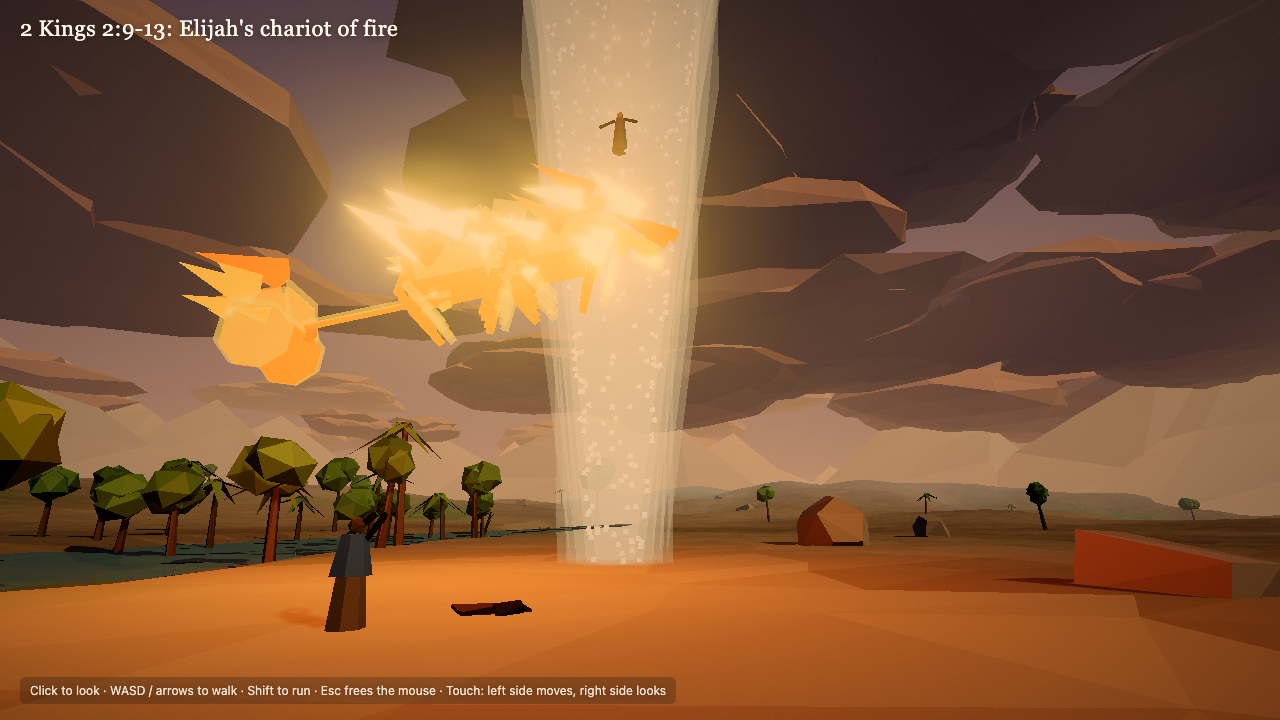
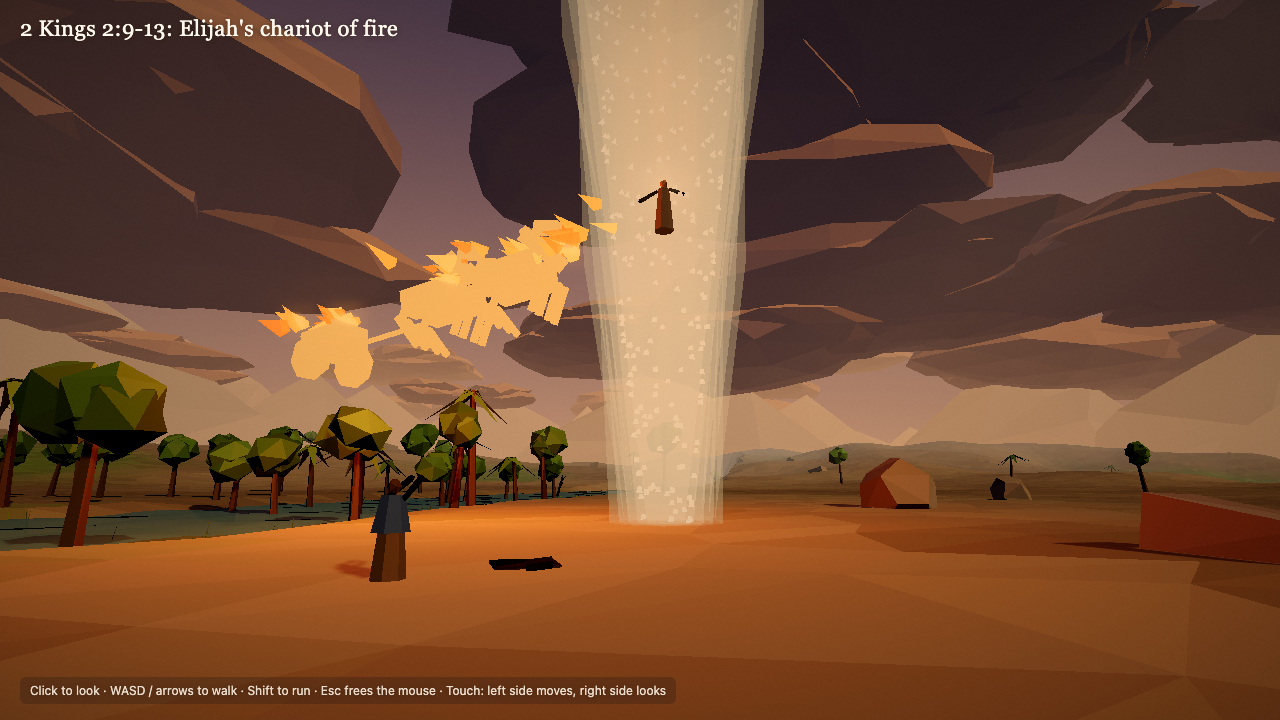
feat: polish lowpoly scenes ot-31 to ot-37

diff --git a/styles/lowpoly/scenes/ot-35.js b/styles/lowpoly/scenes/ot-35.js
@@ -3,6 +3,7 @@
 // The player stands with Elisha on the north gate tower looking out. -z is north.
 import * as THREE from 'three';
 import { figure, glowMaterial, teamGeometry, chariotGeometry, horseGeometry, instances } from './lib/ot-31-kit.js';
+import { mergeGeometries } from 'three/addons/utils/BufferGeometryUtils.js';
 import { rng } from '../engine/util.js';
 
 const CITY = [0, 20];
@@ -78,30 +79,52 @@ function syrianHost(ctx) {
   }
 }
 
+// Flame tongues in team space: over each wheel, along the horses' backs and manes, and streaming behind the car.
+function flameGeometry() {
+  const r = rng(38);
+  const cones = [];
+  const tongue = (x, y, z, h, w, lean) => cones.push(new THREE.ConeGeometry(w * 1.2, h * 1.3, 4).translate(0, h / 2, 0).rotateX(-lean).translate(x, y, z).toNonIndexed());
+  for (const side of [-1, 1]) {
+    for (let k = 0; k < 3; k++) tongue(side * 0.7, 1.0 + k * 0.1, -0.3 - k * 0.35, 0.9 - k * 0.15, 0.16, 0.9);
+    for (let k = 0; k < 3; k++) tongue(side * 0.42, 1.55, 2.6 + k * 0.5, 0.7, 0.12, 0.8);
+    tongue(side * 0.42, 1.95, 4.0, 0.8, 0.12, 0.9);
+  }
+  for (let k = 0; k < 5; k++) tongue(r.range(-0.5, 0.5), 1.3, -0.4 - k * 0.3, 1.1 - k * 0.12, 0.2, 1.1);
+  return mergeGeometries(cones.map((g) => { for (const a of Object.keys(g.attributes)) if (a !== 'position') g.deleteAttribute(a); return g; }));
+}
+
 function hostsOfFire(ctx) {
   const r = rng(37);
-  const list = [];
-  for (let i = 0; i < 200; i++) {
-    const a = -Math.PI / 2 + r.range(-2.2, 2.2), d = r.range(130, 280);
+  const spots = [];
+  for (let i = 0; i < 3000; i++) {
+    const a = -Math.PI / 2 + r.range(-1.3, 1.3), d = r.range(140, 280);
     const x = CITY[0] + Math.cos(a) * d, z = CITY[1] + Math.sin(a) * d;
-    list.push({ x, z, y: ctx.heightAt(x, z) + r.range(0, 4), yaw: Math.atan2(CITY[0] - x, CITY[1] - z) + r.range(-0.4, 0.4), scale: r.range(2.4, 3.4), pitch: r.range(-0.15, 0.05) });
+    spots.push({ x, z, d, y: ctx.heightAt(x, z) });
   }
-  const team = teamGeometry({ horses: 2, gallop: 0.8 });
-  const core = instances(ctx, team, glowMaterial('#ff7a20', 1.5), list, { shadow: false });
-  const halo = instances(ctx, team, glowMaterial('#ffd060', 1.2, { transparent: true, opacity: 0.35, depthWrite: false }), list.map((p) => ({ ...p, scale: p.scale * 1.15 })), { shadow: false });
-  const flame = new THREE.ConeGeometry(0.6, 3, 4).translate(0, 1.5, 0);
-  const tongues = [];
-  for (const p of list) for (let k = 0; k < 3; k++) tongues.push({ x: p.x + r.range(-2, 2), z: p.z + r.range(-2, 2), y: p.y + r.range(0, 2), yaw: r() * 3, scale: r.range(0.8, 1.8) });
-  const flames = instances(ctx, flame, glowMaterial('#ffb040', 1.7), tongues, { shadow: false });
+  spots.sort((p, q) => q.y - q.d * 0.05 - (p.y - p.d * 0.05));
+  const list = [];
+  for (const s of spots) {
+    if (list.length >= 20) break;
+    if (list.some((p) => Math.hypot(p.x - s.x, p.z - s.z) < 40)) continue;
+    const across = Math.atan2(CITY[0] - s.x, CITY[1] - s.z) + (r() < 0.5 ? 1 : -1) * Math.PI / 2;
+    list.push({ x: s.x, z: s.z, y: s.y + 1.5, yaw: across + r.range(-0.3, 0.3), scale: 6 + (s.d - 140) * 0.03 });
+  }
+  for (let tries = 0; tries < 2000 && list.length < 32; tries++) {
+    const a = -Math.PI / 2 + r.range(-1.2, 1.2), d = r.range(115, 175);
+    const x = CITY[0] + Math.cos(a) * d, z = CITY[1] + Math.sin(a) * d;
+    if (list.some((p) => Math.hypot(p.x - x, p.z - z) < 30)) continue;
+    const across = Math.atan2(CITY[0] - x, CITY[1] - z) + (r() < 0.5 ? 1 : -1) * Math.PI / 2;
+    list.push({ x, z, y: ctx.heightAt(x, z) + r.range(3, 9), yaw: across + r.range(-0.3, 0.3), scale: r.range(4.6, 5.4) });
+  }
+  const core = instances(ctx, teamGeometry({ horses: 2, gallop: 0.8 }), glowMaterial('#ffc27a', 1.0), list, { shadow: false });
+  const flames = instances(ctx, flameGeometry(), glowMaterial('#ff8a24', 1.35, { transparent: true, opacity: 0.85, depthWrite: false }), list, { shadow: false });
   ctx.onFrame((t) => {
-    const k = 0.92 + 0.08 * Math.sin(t * 9) * Math.sin(t * 5.3);
-    core.material.color.setRGB(1.5 * k, 0.72 * k, 0.19 * k);
-    flames.material.color.setRGB(1.7 * k, 1.2 * k, 0.4 * k);
-    halo.material.opacity = 0.3 + 0.1 * Math.sin(t * 3);
+    const k = 0.9 + 0.1 * Math.sin(t * 9) * Math.sin(t * 5.3);
+    flames.material.color.setRGB(2.0 * k, 0.95 * k, 0.25 * k);
   });
-  for (let i = 0; i < 12; i++) {
+  for (let i = 0; i < 8; i++) {
     const p = list[Math.floor(r() * list.length)];
-    ctx.effects.halo({ position: [p.x, p.y + 6, p.z], size: 60, opacity: 0.35, color: '#ff9a40' });
+    ctx.effects.halo({ position: [p.x, p.y + 4, p.z], size: 40, opacity: 0.18, color: '#ff9a40' });
   }
 }
 
@@ -117,7 +140,7 @@ export default {
   fog: { color: '#a48078', near: 120, far: 640 },
   clouds: { count: 60, shadow: '#3a3450', lit: '#f0a080', rim: '#ffe0c0', distance: [250, 900], altitude: [100, 240], hole: 0.3, seed: 35 },
   mountains: { count: 40, color: '#4e4a52', radius: [520, 760], height: [50, 120], haze: 0.5 },
-  bloom: { strength: 0.8, radius: 0.65, threshold: 0.78 },
+  bloom: { strength: 0.5, radius: 0.35, threshold: 0.9 },
   grade: { saturation: 1.12, contrast: 1.08, vignette: 0.42, shadowTint: '#2a2858', highlightTint: '#ffd8b0' },
   shadow: { center: [0, -30], radius: 90 },
 

diff --git a/styles/lowpoly/scenes/ot-33.js b/styles/lowpoly/scenes/ot-33.js
@@ -15,20 +15,17 @@ function fieryTeam(ctx, { x, y, z, yaw, pitch, scale = 1 }) {
   group.rotation.set(pitch, yaw, 0);
   group.scale.setScalar(scale);
   const geo = teamGeometry({ horses: 4, gallop: 0.7 });
-  group.add(new THREE.Mesh(geo, glowMaterial('#ff7a22', 1.4)));
-  const shell = new THREE.Mesh(geo, glowMaterial('#ffd060', 1.3, { transparent: true, opacity: 0.35, depthWrite: false }));
-  shell.scale.setScalar(1.08);
-  group.add(shell);
+  group.add(new THREE.Mesh(geo, glowMaterial('#ffb060', 1.0)));
   const cone = new THREE.ConeGeometry(0.22, 1, 4).translate(0, 0.5, 0);
   const flames = [];
   const r = ctx.rand;
-  const mats = ['#ff5a14', '#ff9a2a', '#ffd060'].map((c) => glowMaterial(c, 1.7));
-  for (let i = 0; i < 70; i++) {
+  const mats = ['#ff5a14', '#ff8a2a', '#ffb040'].map((c) => glowMaterial(c, 1.8, { transparent: true, opacity: 0.85, depthWrite: false }));
+  for (let i = 0; i < 60; i++) {
     const m = new THREE.Mesh(cone, mats[i % 3]);
     const row = r();
-    m.position.set(r.range(-0.9, 0.9), r.range(0.6, 2.2), row < 0.3 ? r.range(-0.4, 0.8) : r.range(2.6, 8));
+    m.position.set((r() < 0.5 ? -1 : 1) * r.range(0.4, 0.9), r.range(1.2, 2.2), row < 0.3 ? r.range(-0.8, 0.2) : r.range(2.6, 8));
     m.rotation.set(r.range(-0.6, -1.3), 0, r.range(-0.3, 0.3));
-    m.scale.setScalar(r.range(0.6, 1.6));
+    m.scale.setScalar(r.range(0.5, 1.1));
     group.add(m);
     flames.push({ m, s: m.scale.x, ph: r() * 9 });
   }
@@ -55,11 +52,11 @@ export default {
   fog: { color: '#9a8a7a', near: 80, far: 560 },
   clouds: { count: 110, shadow: '#2a2a38', lit: '#d08a5a', rim: '#ffd8a0', distance: [150, 800], altitude: [70, 200], hole: 0.15, seed: 33 },
   mountains: { count: 40, color: '#6a5e50', radius: [500, 720], height: [60, 140], haze: 0.5 },
-  bloom: { strength: 0.8, radius: 0.6, threshold: 0.8 },
+  bloom: { strength: 0.55, radius: 0.4, threshold: 0.9 },
   grade: { saturation: 1.12, contrast: 1.08, vignette: 0.45, shadowTint: '#2a2850', highlightTint: '#ffd8a8' },
   shadow: { center: [-6, -6], radius: 60 },
 
-  player: { start: [7, 11], yaw: 0.12, pitch: 0.26, eye: 1.65, speed: 4.5 },
+  player: { start: [8, 11], yaw: 0.24, pitch: 0.2, eye: 1.65, speed: 4.5 },
 
   terrain: {
     size: 1100,
@@ -108,14 +105,14 @@ export default {
     water(ctx, { y: -0.75, geometry: riverGeometry(RIVER, 22, 8), color: '#5a7a74', opacity: 0.9, amp: 0.06 });
     reeds(ctx, RIVER, { offset: 9.5, spread: 2.5, every: 4 });
     whirlwind(ctx, { x: ELIJAH[0], z: ELIJAH[1], y: ctx.heightAt(...ELIJAH), height: 44, radius: 3.2, color: '#f0d8b0', opacity: 0.13, motes: 400 });
-    const lift = figure(ctx, { x: ELIJAH[0], z: ELIJAH[1], y: 19, face: ELISHA, robe: '#5e4a36', skin: '#9b6a46', arms: 'out', emissive: 0.15, scale: 1.3, collide: false, halo: { size: 5, opacity: 0.4, color: '#ffe0b0' } });
+    const lift = figure(ctx, { x: ELIJAH[0], z: ELIJAH[1], y: 13, face: ELISHA, robe: '#5e4a36', skin: '#9b6a46', arms: 'out', emissive: 0.3, scale: 1.5, collide: false, halo: { size: 5, opacity: 0.4, color: '#ffe0b0' } });
     lift.traverse((m) => {
       if (!m.material) return;
       m.material.transparent = true;
       m.renderOrder = 20;
     });
-    ctx.onFrame((t) => (lift.position.y = 19 + Math.sin(t * 0.6) * 0.4));
-    fieryTeam(ctx, { x: -5, y: 6, z: -4, scale: 1.5, yaw: Math.PI / 2 + 0.25, pitch: -0.28 });
+    ctx.onFrame((t) => (lift.position.y = 13 + Math.sin(t * 0.6) * 0.4));
+    fieryTeam(ctx, { x: -12, y: 6.5, z: -12, scale: 1.8, yaw: Math.PI / 2 - 0.05, pitch: -0.2 });
     figure(ctx, { x: ELISHA[0], z: ELISHA[1], face: ELIJAH, robe: '#7a5c40', mantle: '#4f5a6b', skin: '#a87652', arms: 'reach', scale: 1.02 });
     const y = ctx.heightAt(2.8, -0.6);
     ctx.solid.add(new THREE.BoxGeometry(1.3, 0.06, 0.9), { position: [2.8, y + 0.04, -0.6], rotation: [0.03, 0.6, -0.02], color: '#3b2c20' });

diff --git a/styles/lowpoly/scenes/ot-32.js b/styles/lowpoly/scenes/ot-32.js
@@ -9,8 +9,8 @@ const rockColor = '#6e5648';
 function cave(ctx) {
   const { THREE, solid, rand: r } = ctx;
   const y0 = 0;
-  for (let z = -1.2; z <= 10; z += 1.25) {
-    const open = z < 0 ? 0.25 : 0;
+  for (let z = 0.8; z <= 10; z += 1.25) {
+    const open = z < 2 ? 0.3 : 0;
     for (let a = open; a <= Math.PI - open + 0.01; a += Math.PI / 7) {
       const rad = 5 + r.range(-0.2, 0.4) - (z > 8 ? (z - 8) * 0.6 : 0);
       solid.add(new THREE.DodecahedronGeometry(1.7, 0), {
@@ -26,7 +26,7 @@ function cave(ctx) {
     solid.add(new THREE.DodecahedronGeometry(2.2, 0), { position: [r.range(-3, 3), r.range(0.5, 4), 11 + r.range(-0.4, 0.4)], rotation: [r() * 3, r() * 3, 0], color: rockColor, jitter: 0.1 });
   }
   for (let i = 0; i < 14; i++) {
-    const z = r.range(-1, 10);
+    const z = r.range(1.6, 10);
     solid.add(new THREE.DodecahedronGeometry(1.8, 0), { position: [r.range(-2, 2), 6.4 + r.range(0, 1.5), z], rotation: [r() * 3, r() * 3, 0], scale: [2, 1, 1.4], color: '#5e483c', jitter: 0.1 });
   }
   for (const side of [-1, 1]) ctx.colliders.add({ x: side * 4.3, z: 4.5, w: 1.6, d: 12, bottom: -2, top: 6 });
@@ -96,7 +96,7 @@ export default {
   grade: { saturation: 1.05, contrast: 1.08, vignette: 0.55, shadowTint: '#1e2050', highlightTint: '#ffe0c0' },
   shadow: { center: [0, -6], radius: 45 },
 
-  player: { start: [-0.6, 6], yaw: 0.04, pitch: 0.04, eye: 1.65, speed: 3.5 },
+  player: { start: [-1.1, 5.4], yaw: 0.07, pitch: -0.02, eye: 1.65, speed: 3.5 },
 
   terrain: {
     size: 1000,
@@ -145,5 +145,8 @@ export default {
     const lamp = new ctx.THREE.PointLight('#d8d8ff', 18, 18, 1.3);
     lamp.position.set(0, 2.6, 0.5);
     ctx.scene.add(lamp);
+    const ember = new ctx.THREE.PointLight('#c89070', 14, 14, 1.2);
+    ember.position.set(-1.2, 2.2, 6.5);
+    ctx.scene.add(ember);
   },
 };

diff --git a/styles/lowpoly/scenes/ot-31.js b/styles/lowpoly/scenes/ot-31.js
@@ -84,11 +84,11 @@ export default {
   fog: { color: '#8e6656', near: 70, far: 520 },
   clouds: { count: 80, shadow: '#24222e', lit: '#c88060', rim: '#ffe0b0', distance: [200, 900], altitude: [90, 260], hole: 0.25, seed: 31 },
   mountains: { count: 36, color: '#5a5a52', radius: [560, 780], height: [30, 90], haze: 0.6 },
-  bloom: { strength: 0.75, radius: 0.6, threshold: 0.8 },
+  bloom: { strength: 0.6, radius: 0.5, threshold: 0.82 },
   grade: { saturation: 1.1, contrast: 1.08, vignette: 0.45, shadowTint: '#2a2450', highlightTint: '#ffd6a0' },
   shadow: { center: [-6, -8], radius: 60 },
 
-  player: { start: [1.5, 8], yaw: 0.16, pitch: 0.1, eye: 1.65, speed: 4.5 },
+  player: { start: [4.8, 0.8], yaw: 0.74, pitch: 0.06, eye: 1.65, speed: 4.5 },
 
   terrain: {
     size: 1100,
@@ -136,8 +136,8 @@ export default {
   },
 
   effects: [
-    { type: 'beam', at: ALTAR, height: 320, radiusBottom: 2.2, radiusTop: 14, color: '#ff8a2a', opacity: 0.95 },
-    { type: 'beam', at: ALTAR, height: 320, radiusBottom: 1.2, radiusTop: 6, color: '#ffd27a', opacity: 0.8 },
+    { type: 'beam', at: ALTAR, height: 320, radiusBottom: 1.8, radiusTop: 12, color: '#ff8a2a', opacity: 0.6 },
+    { type: 'beam', at: ALTAR, height: 320, radiusBottom: 0.9, radiusTop: 5, color: '#ffd27a', opacity: 0.6 },
     { type: 'motes', at: ALTAR, radius: 4, height: 60, count: 260, color: '#ffb050', size: 0.12 },
     { type: 'ring', at: ALTAR, lift: 0.1, radius: 3.4, width: 1.4, color: '#ff9a40', opacity: 0.7 },
     { type: 'smoke', at: ALTAR, lift: 2, count: 10, height: 40, size: 1.4, color: '#8a7a72', wind: [0.6, 0.2] },

diff --git a/styles/lowpoly/scenes/ot-34.js b/styles/lowpoly/scenes/ot-34.js
@@ -4,7 +4,7 @@ import * as THREE from 'three';
 import { figure, water, channelFlats, riverGeometry, reeds, chariotGeometry, horseGeometry, instances } from './lib/ot-31-kit.js';
 
 const RIVER = [[-340, -6], [-140, -2], [-50, -10], [10, -6], [90, -14], [340, -6]];
-const NAAMAN = [0, -4];
+const NAAMAN = [0.5, -1.2];
 const WATER_Y = -0.7;
 
 function chariotTeam(ctx, { x, z, yaw }) {
@@ -36,7 +36,7 @@ export default {
   grade: { saturation: 1.12, contrast: 1.05, vignette: 0.32, shadowTint: '#2a3050', highlightTint: '#fff2d8' },
   shadow: { center: [2, 0], radius: 50 },
 
-  player: { start: [-3, 13], yaw: -0.36, pitch: -0.1, eye: 1.65, speed: 4.5 },
+  player: { start: [-2.6, 10.8], yaw: -0.42, pitch: -0.12, eye: 1.65, speed: 4.5 },
 
   terrain: {
     size: 1100,

diff --git a/styles/lowpoly/scenes/ot-37.js b/styles/lowpoly/scenes/ot-37.js
@@ -115,7 +115,7 @@ export default {
   grade: { saturation: 1.14, contrast: 1.08, vignette: 0.5, shadowTint: '#2a2050', highlightTint: '#ffe0b0' },
   shadow: { center: [0, -10], radius: 40 },
 
-  player: { start: [0.8, -5], yaw: 0, pitch: 0.08, eye: 1.65, speed: 3.5 },
+  player: { start: [1.8, -11.5], yaw: 0.08, pitch: 0.07, eye: 1.65, speed: 3.5 },
 
   terrain: { size: 400, segments: 40, seed: 37, hills: 0, bumps: 0, colors: { ground: '#a08a68', groundAlt: '#a08a68', grass: '#a08a68', rock: '#a08a68' } },
 

diff --git a/styles/lowpoly/scenes/ot-36.js b/styles/lowpoly/scenes/ot-36.js
@@ -110,7 +110,7 @@ export default {
   grade: { saturation: 1.1, contrast: 1.06, vignette: 0.36, shadowTint: '#2e2a50', highlightTint: '#ffe8c8' },
   shadow: { center: [0, -6], radius: 70 },
 
-  player: { start: [15, 5], yaw: 0.3, pitch: 0.1, eye: 1.65, speed: 4.5 },
+  player: { start: [7, 1], yaw: 0.14, pitch: 0.03, eye: 1.65, speed: 4.5 },
 
   terrain: {
     size: 1100,
